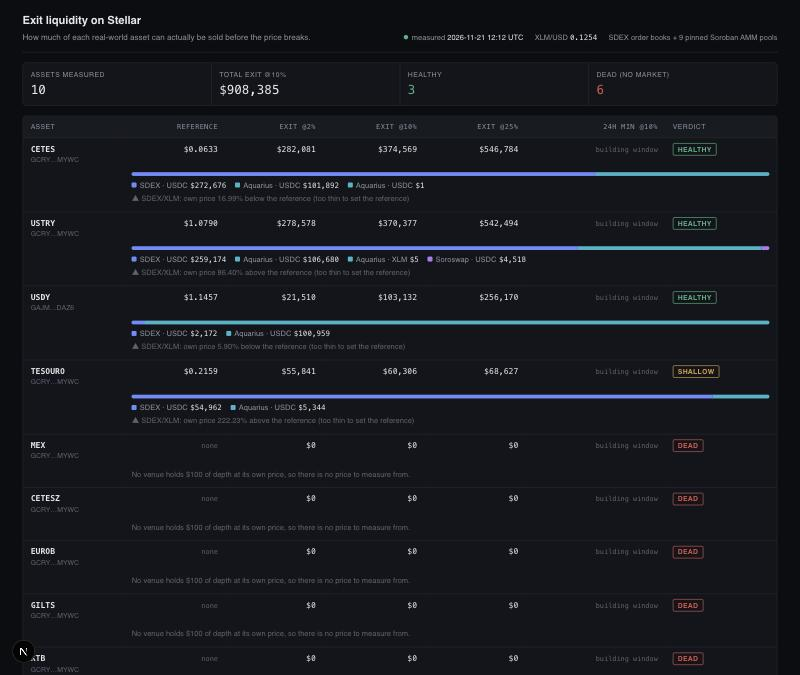
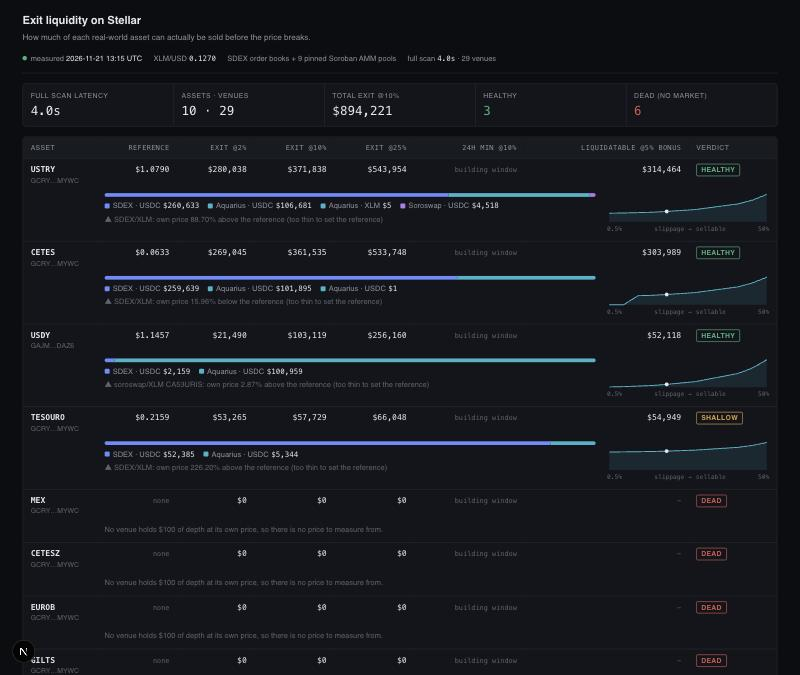
Show the liquidation curve, lender cap and scan latency
Each asset now shows its liquidation curve (sellable value from 0.5%
to 50% slippage, with the 5% point marked) beside the venue breakdown,
and a new column gives the collateral that could be liquidated on
Stellar right now at a 5% liquidation bonus.

The header and KPI strip show the last full scan's latency and how
many venues it read (live: 4.0s, 29 venues). The README screenshot is
refreshed from this run.

diff --git a/web/app/page.tsx b/web/app/page.tsx
@@ -7,6 +7,7 @@ import {
   type Windowed,
   getAsset,
   getLatest,
+  liquidatableAt,
   usd,
   utc,
   venueName,
@@ -15,6 +16,37 @@ import {
 export const dynamic = "force-dynamic";
 
 const BANDS = [200, 1000, 2500] as const;
+/** Liquidation bonus used for the lender column. Blend-style pools pay 5% to 10%. */
+const BONUS_BPS = 500;
+
+/** Liquidation curve: total exit (y) against slippage band (x, evenly spaced samples). */
+function Curve({ r }: { r: AssetReport }) {
+  const pts = r.curve ?? [];
+  const max = Math.max(...pts.map((p) => Number(p.exit_usd)), 0);
+  if (pts.length < 2 || max < 1) return null;
+  const W = 260;
+  const H = 54;
+  const x = (i: number) => 4 + (i / (pts.length - 1)) * (W - 8);
+  const y = (v: number) => H - 4 - (v / max) * (H - 10);
+  const line = pts.map((p, i) => `${i ? "L" : "M"}${x(i).toFixed(1)},${y(Number(p.exit_usd)).toFixed(1)}`).join(" ");
+  const bi = pts.findIndex((p) => p.band === BONUS_BPS);
+  return (
+    <figure className="curve">
+      <svg width={W} height={H} viewBox={`0 0 ${W} ${H}`} role="img" aria-label={`${r.code} liquidation curve`}>
+        <path d={`${line} L${x(pts.length - 1)},${H - 4} L${x(0)},${H - 4} Z`} className="curve-fill" />
+        <path d={line} className="curve-line" />
+        {bi >= 0 && (
+          <circle cx={x(bi)} cy={y(Number(pts[bi].exit_usd))} r={3} className="curve-dot" />
+        )}
+      </svg>
+      <figcaption>
+        <span>{pts[0].band / 100}%</span>
+        <span>slippage → sellable</span>
+        <span>{pts[pts.length - 1].band / 100}%</span>
+      </figcaption>
+    </figure>
+  );
+}
 
 function venueColor(v: Venue): string {
   if (v.kind === "sdex") return "var(--sdex)";
@@ -135,11 +167,21 @@ export default async function Page() {
             XLM/USD <b className="num">{Number(run.xlm_usd).toFixed(4)}</b>
           </span>
           <span>{run.venues}</span>
+          {run.stats && (
+            <span>
+              full scan <b className="num">{(run.stats.duration_ms / 1000).toFixed(1)}s</b> ·{" "}
+              {run.stats.venues} venues
+            </span>
+          )}
         </div>
       </Header>
 
-      <section className="kpis">
-        <Kpi label="Assets measured" value={String(run.reports.length)} />
+      <section className="kpis five">
+        <Kpi
+          label="Full scan latency"
+          value={run.stats ? `${(run.stats.duration_ms / 1000).toFixed(1)}s` : "-"}
+        />
+        <Kpi label="Assets · venues" value={`${run.reports.length} · ${run.stats?.venues ?? "-"}`} />
         <Kpi label="Total exit @10%" value={usd(String(total10))} />
         <Kpi label="Healthy" value={String(healthy)} cls="v-healthy" />
         <Kpi label="Dead (no market)" value={String(dead)} cls="v-dead" />
@@ -157,6 +199,9 @@ export default async function Page() {
                 </th>
               ))}
               <th className="num">24h min @10%</th>
+              <th className="num" title="Collateral that can be liquidated on Stellar right now at a 5% liquidation bonus">
+                Liquidatable @5% bonus
+              </th>
               <th>Verdict</th>
             </tr>
           </thead>
@@ -182,12 +227,20 @@ export default async function Page() {
                   <td className="num">
                     <WindowCell w={w10} />
                   </td>
+                  <td className="num">
+                    {(() => {
+                      const v = liquidatableAt(r, BONUS_BPS);
+                      return v === null ? <span className="sub">-</span> : usd(v);
+                    })()}
+                  </td>
                   <td>{d10 && <Chip v={d10.verdict} />}</td>
                 </tr>,
                 <tr key={`${r.code}-d`} className="detail">
                   <td />
-                  <td colSpan={6}>
-                    <Venues r={r} />
+                  <td colSpan={7}>
+                    <div className="detail-grid">
+                      <div>
+                        <Venues r={r} />
                     {!r.reference && (
                       <div className="flag muted">
                         No venue holds $100 of depth at its own price, so there is no price to
@@ -195,6 +248,9 @@ export default async function Page() {
                       </div>
                     )}
                     <Notes r={r} />
+                      </div>
+                      <Curve r={r} />
+                    </div>
                   </td>
                 </tr>,
               ];

diff --git a/web/lib/api.ts b/web/lib/api.ts
@@ -36,6 +36,15 @@ export interface AssetReport {
   venue_mids: VenueMid[];
   depths: AssetDepth[];
   notes: string[];
+  venues_read?: number;
+  curve?: { band: number; exit_usd: string }[];
+}
+
+export interface RunStats {
+  duration_ms: number;
+  assets: number;
+  venues: number;
+  sep1_domains: number;
 }
 
 export interface Run {
@@ -44,6 +53,7 @@ export interface Run {
   venues: string;
   reports: AssetReport[];
   skipped: { code: string; reason: string }[];
+  stats?: RunStats;
 }
 
 export type Windowed =
@@ -102,4 +112,11 @@ export function venueName(v: Venue): string {
 
 export function utc(ts: number): string {
   return new Date(ts * 1000).toISOString().replace("T", " ").slice(0, 16) + " UTC";
+}
+
+/** Curve value at the largest sampled band not above `bonusBps` (never rounds up). */
+export function liquidatableAt(r: AssetReport, bonusBps: number): string | null {
+  const pts = (r.curve ?? []).filter((p) => p.band <= bonusBps);
+  if (pts.length === 0) return null;
+  return pts.reduce((a, b) => (b.band > a.band ? b : a)).exit_usd;
 }

diff --git a/web/app/globals.css b/web/app/globals.css
@@ -100,6 +100,10 @@ header.top p {
   margin: 16px 0;
 }
 
+.kpis.five {
+  grid-template-columns: repeat(5, minmax(0, 1fr));
+}
+
 .kpi {
   background: var(--panel);
   padding: 10px 12px;
@@ -246,7 +250,52 @@ footer {
 }
 
 @media (max-width: 720px) {
-  .kpis {
+  .kpis,
+  .kpis.five {
     grid-template-columns: repeat(2, minmax(0, 1fr));
+  }
+}
+
+.detail-grid {
+  display: grid;
+  grid-template-columns: minmax(0, 1fr) auto;
+  gap: 18px;
+  align-items: start;
+}
+
+.curve {
+  margin: 0;
+}
+
+.curve svg {
+  display: block;
+}
+
+.curve-line {
+  fill: none;
+  stroke: var(--aquarius);
+  stroke-width: 1.5;
+}
+
+.curve-fill {
+  fill: var(--aquarius);
+  opacity: 0.12;
+}
+
+.curve-dot {
+  fill: var(--text);
+}
+
+.curve figcaption {
+  display: flex;
+  justify-content: space-between;
+  color: var(--faint);
+  font-size: 10px;
+  font-family: var(--mono);
+}
+
+@media (max-width: 720px) {
+  .detail-grid {
+    grid-template-columns: minmax(0, 1fr);
   }
 }
